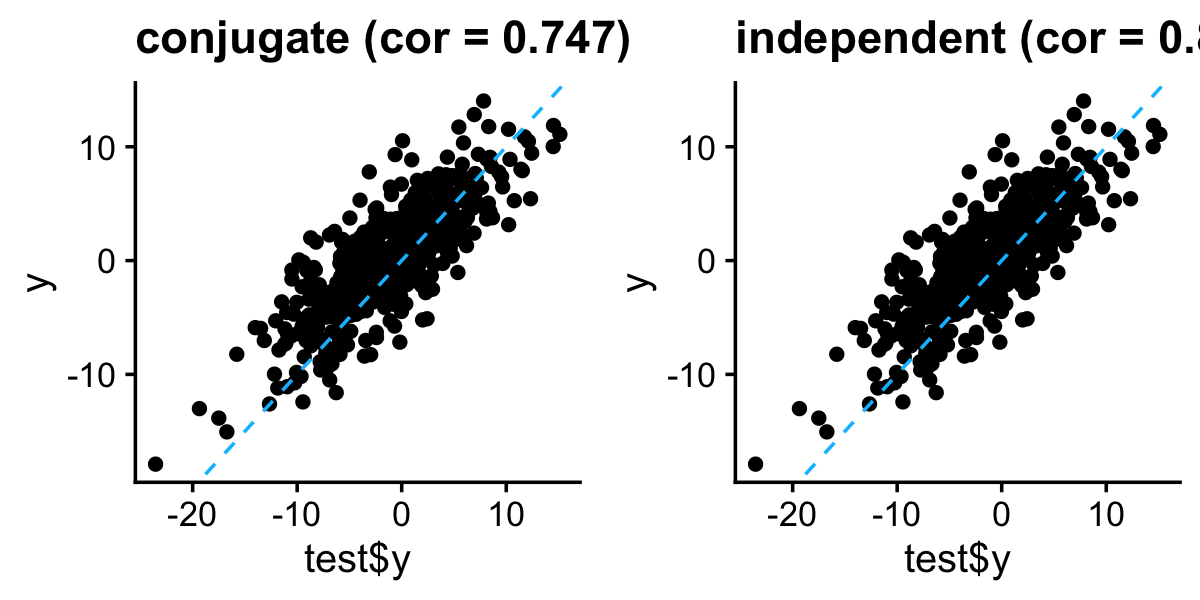
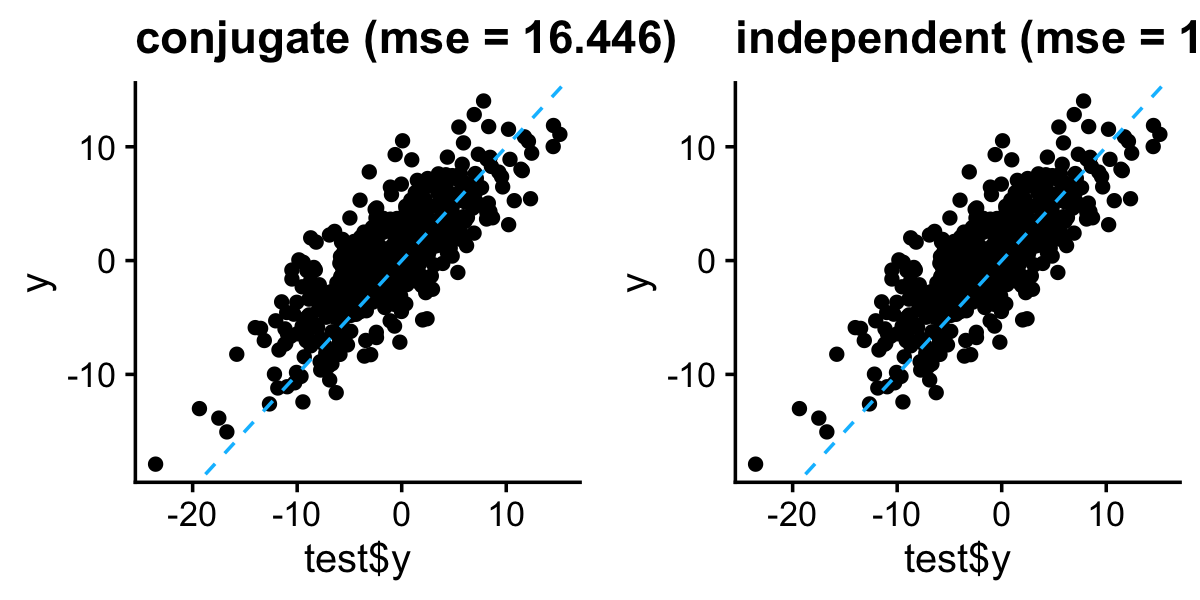
Added L0Learn to linreg_methods_demo.

Changed region(s): [[0.3083, 0.03, 0.5858, 0.09], [0.8633, 0.03, 1.0, 0.09]]

diff --git a/docs/linreg_methods_demo.html b/docs/linreg_methods_demo.html
@@ -307,7 +307,7 @@ class="glyphicon glyphicon-ok text-success" aria-hidden="true"></span>
 <div class="tab-content">
 <div id="summary" class="tab-pane fade in active">
 <p>
-<strong>Last updated:</strong> 2023-05-09
+<strong>Last updated:</strong> 2023-05-13
 </p>
 <p>
 <strong>Checks:</strong> <span
@@ -438,15 +438,15 @@ project makes it easier to run your code on other machines.</p>
 <div class="panel panel-default">
 <div class="panel-heading">
 <p class="panel-title">
-<a data-toggle="collapse" data-parent="#workflowr-checks" href="#strongRepositoryversionstrongahrefhttpsgithubcompcarbopcarbotree97c6939f35b9dcf0b1480132ceb6df593cdc57f3targetblank97c6939a">
+<a data-toggle="collapse" data-parent="#workflowr-checks" href="#strongRepositoryversionstrongahrefhttpsgithubcompcarbopcarbotreeeaecd02594c14e48a279d8c07ee5add351a1f085targetblankeaecd02a">
 <span class="glyphicon glyphicon-ok text-success"
 aria-hidden="true"></span> <strong>Repository version:</strong>
-<a href="https://github.com/pcarbo/pcarbo/tree/97c6939f35b9dcf0b1480132ceb6df593cdc57f3" target="_blank">97c6939</a>
+<a href="https://github.com/pcarbo/pcarbo/tree/eaecd02594c14e48a279d8c07ee5add351a1f085" target="_blank">eaecd02</a>
 </a>
 </p>
 </div>
 <div
[2 lines of base64/hex data omitted]
 class="panel-collapse collapse">
 <div class="panel-body">
 <p>
@@ -456,7 +456,7 @@ reproducibility.
 </p>
 <p>
 The results in this page were generated with repository version
-<a href="https://github.com/pcarbo/pcarbo/tree/97c6939f35b9dcf0b1480132ceb6df593cdc57f3" target="_blank">97c6939</a>.
+<a href="https://github.com/pcarbo/pcarbo/tree/eaecd02594c14e48a279d8c07ee5add351a1f085" target="_blank">eaecd02</a>.
 See the <em>Past versions</em> tab to see a history of the changes made
 to the R Markdown and HTML files.
 </p>
@@ -471,7 +471,6 @@ were generated:
 </p>
 <pre><code>
 Ignored files:
-    Ignored:    analysis/figure/
     Ignored:    analysis/fit-scd-ex-k=10.rds
     Ignored:    sbatch/makefile_demo/sims/sim0001.csv
     Ignored:    sbatch/makefile_demo/sims/sim0002.csv
@@ -778,6 +777,40 @@ Message
 Rmd
 </td>
 <td>
+<a href="https://github.com/pcarbo/pcarbo/blob/eaecd02594c14e48a279d8c07ee5add351a1f085/analysis/linreg_methods_demo.Rmd" target="_blank">eaecd02</a>
+</td>
+<td>
+Peter Carbonetto
+</td>
+<td>
+2023-05-13
+</td>
+<td>
+workflowr::wflow_publish("linreg_methods_demo.Rmd", verbose = TRUE)
+</td>
+</tr>
+<tr>
+<td>
+html
+</td>
+<td>
+<a href="https://rawcdn.githack.com/pcarbo/pcarbo/6182121cf30a7bc351295fd5323b6beb97138404/docs/linreg_methods_demo.html" target="_blank">6182121</a>
+</td>
+<td>
+Peter Carbonetto
+</td>
+<td>
+2023-05-09
+</td>
+<td>
+Added emvs to linreg_methods_demo.
+</td>
+</tr>
+<tr>
+<td>
+Rmd
+</td>
+<td>
 <a href="https://github.com/pcarbo/pcarbo/blob/97c6939f35b9dcf0b1480132ceb6df593cdc57f3/analysis/linreg_methods_demo.Rmd" target="_blank">97c6939</a>
 </td>
 <td>
@@ -835,13 +868,14 @@ workflowr::wflow_publish("linreg_methods_demo.Rmd", verbose = TRUE)
 <p>Load the packages and set the seed so that we may reproduce the
 results more easily.</p>
 <pre class="r"><code>library(MASS)
+library(L0Learn)
 library(SSLASSO)
 library(EMVS)
 library(ggplot2)
 library(cowplot)
 set.seed(1)</code></pre>
-<p>Simulate a data set with correlated variables. This simulation is
-similar to Example 1 from <a
+<p>Simulate a data set with correlated variables in a similar way to
+Example 1 from <a
 href="https://doi.org/10.1111/j.1467-9868.2005.00503.x">Zou &amp; Hastie
 2005</a>.</p>
 <pre class="r"><code>simulate_predictors_decaying_corr &lt;- function (n, p, s = 0.5)
@@ -857,10 +891,51 @@ Xtest  &lt;- simulate_predictors_decaying_corr(500,p,0.5)
 train  &lt;- list(X = Xtrain,y = simulate_outcomes(Xtrain,b,se))
 test   &lt;- list(X = Xtest,y = simulate_outcomes(Xtest,b,se))
 btrue  &lt;- b</code></pre>
+<div id="l0learn" class="section level2">
+<h2>L0Learn</h2>
+<p>First, let’s try the <a
+href="https://cran.r-project.org/package=L0Learn">L0Learn</a> from <a
+href="https://doi.org/10.1287/opre.2019.1919">Hazimeh and Mazumder
+2020</a>. In the <a
+href="https://cran.r-project.org/web/packages/L0Learn/vignettes/L0Learn-vignette.html">vignette</a>,
+the authors suggest using the “L0L1” or “L0L2” penalties for better
+predictive performance. The package includes an interface to
+automatically select the penalty parameters <span
+class="math inline">\(\lambda, \gamma\)</span> that minimize the
+test-set error. (L0Learn has two model fitting algorithms; the CD
+algorithm is faster whereas the CDPSI can sometimes produces better
+fits. For expediency we’ll use the CD algorithm.)</p>
+<pre class="r"><code>l0learn_cv &lt;- with(train,L0Learn.cvfit(X,y,penalty = &quot;L0L1&quot;,algorithm = &quot;CD&quot;))
+i &lt;- which.min(sapply(l0learn_cv$cvMeans,min))
+j &lt;- which.min(l0learn_cv$cvMeans[[i]])
+gamma &lt;- l0learn_cv$fit$gamma[i]
+lambda &lt;- l0learn_cv$fit$lambda[[i]][j]</code></pre>
+<p>Compare the coefficient estimates against the ground truth:</p>
+<pre class="r"><code>b &lt;- as.vector(coef(l0learn_cv,gamma = gamma,lambda = lambda))
+b0 &lt;- b[1]
+b &lt;- b[-1]
+qplot(btrue,b) +
+  geom_abline(intercept = 0,slope = 1,color = &quot;deepskyblue&quot;,
+              linetype = &quot;dashed&quot;) +
+  theme_cowplot(font_size = 12)  </code></pre>
+<p><img src="figure/linreg_methods_demo.Rmd/plot-coef-l0learn-1.png" width="300" style="display: block; margin: auto;" /></p>
+<p>The mean squared error (MSE) summarizes the accuracy of the
+predictions in the test set examples:</p>
+<pre class="r"><code>mse &lt;- function (x, y)
+  mean((x - y)^2)
+y &lt;- as.vector(predict(l0learn_cv,newx = test$X,gamma = gamma,lambda = lambda))
+qplot(test$y,y) +
+  geom_abline(intercept = 0,slope = 1,color = &quot;deepskyblue&quot;,
+              linetype = &quot;dashed&quot;) +
+  ggtitle(sprintf(&quot;mse = %0.3f&quot;,mse(test$y,y))) +
+  theme_cowplot(font_size = 12) +
+  theme(plot.title = element_text(face = &quot;plain&quot;,size = 12))</code></pre>
+<p><img src="figure/linreg_methods_demo.Rmd/predict-l0learn-1.png" width="300" style="display: block; margin: auto;" /></p>
+</div>
 <div id="sslasso" class="section level2">
 <h2>SSLASSO</h2>
-<p>First let’s try both the “adaptive” and “separable” variants of the
-<a href="https://cran.r-project.org/package=SSLASSO">Spike-and-Slab
+<p>Next let’s try both the “adaptive” and “separable” variants of the <a
+href="https://cran.r-project.org/package=SSLASSO">Spike-and-Slab
 LASSO</a>:</p>
 <pre class="r"><code>sslasso_adapt &lt;-
   with(train,SSLASSO(X,y,penalty = &quot;adaptive&quot;,variance = &quot;unknown&quot;))
@@ -966,7 +1041,7 @@ y  &lt;- drop(b0 + test$X %*% b)
 p1 &lt;- qplot(test$y,y) +
   geom_abline(intercept = 0,slope = 1,color = &quot;deepskyblue&quot;,
               linetype = &quot;dashed&quot;) +
-  ggtitle(sprintf(&quot;separable (cor = %0.3f)&quot;,cor(test$y,y))) +
+  ggtitle(sprintf(&quot;separable (mse = %0.3f)&quot;,mse(test$y,y))) +
   theme_cowplot(font_size = 12)
 b0 &lt;- sslasso_adapt$intercept[16]
 b  &lt;- sslasso_adapt$beta[,16]
@@ -974,7 +1049,7 @@ y  &lt;- drop(b0 + test$X %*% b)
 p2 &lt;- qplot(test$y,y) +
   geom_abline(intercept = 0,slope = 1,color = &quot;deepskyblue&quot;,
               linetype = &quot;dashed&quot;) +
-  ggtitle(sprintf(&quot;adaptive (cor = %0.3f)&quot;,cor(test$y,y))) +
+  ggtitle(sprintf(&quot;adaptive (mse = %0.3f)&quot;,mse(test$y,y))) +
   theme_cowplot(font_size = 12)
 plot_grid(p1,p2)</code></pre>
 <p><img src="figure/linreg_methods_demo.Rmd/predict-sslasso-1.png" width="600" style="display: block; margin: auto;" /></p>
@@ -1000,6 +1075,17 @@ Date
 </tr>
 </thead>
 <tbody>
+<tr>
+<td>
+<a href="https://github.com/pcarbo/pcarbo/blob/6182121cf30a7bc351295fd5323b6beb97138404/docs/figure/linreg_methods_demo.Rmd/predict-sslasso-1.png" target="_blank">6182121</a>
+</td>
+<td>
+Peter Carbonetto
+</td>
+<td>
+2023-05-09
+</td>
+</tr>
 <tr>
 <td>
 <a href="https://github.com/pcarbo/pcarbo/blob/1f3207838e331a8e4e1ac65614c87c0877b04d0b/docs/figure/linreg_methods_demo.Rmd/predict-sslasso-1.png" target="_blank">1f32078</a>
@@ -1036,6 +1122,43 @@ qplot(btrue,b) +
               linetype = &quot;dashed&quot;) +
   theme_cowplot(font_size = 12)</code></pre>
 <p><img src="figure/linreg_methods_demo.Rmd/emvs-conj-1.png" width="300" style="display: block; margin: auto;" /></p>
+<p>
+<button type="button" class="btn btn-default btn-xs btn-workflowr btn-workflowr-fig" data-toggle="collapse" data-target="#fig-emvs-conj-1">
+Past versions of emvs-conj-1.png
+</button>
+</p>
+<div id="fig-emvs-conj-1" class="collapse">
+<div class="table-responsive">
+<table class="table table-condensed table-hover">
+<thead>
+<tr>
+<th>
+Version
+</th>
+<th>
+Author
+</th>
+<th>
+Date
+</th>
+</tr>
+</thead>
+<tbody>
+<tr>
+<td>
+<a href="https://github.com/pcarbo/pcarbo/blob/6182121cf30a7bc351295fd5323b6beb97138404/docs/figure/linreg_methods_demo.Rmd/emvs-conj-1.png" target="_blank">6182121</a>
+</td>
+<td>
+Peter Carbonetto
+</td>
+<td>
+2023-05-09
+</td>
+</tr>
+</tbody>
+</table>
+</div>
+</div>
 <p><em>Add text here.</em></p>
 <pre class="r"><code>b &lt;- with(emvs_ind,betas[14,] * prob_inclusion[14,])
 qplot(btrue,b) +
@@ -1043,6 +1166,43 @@ qplot(btrue,b) +
               linetype = &quot;dashed&quot;) +
   theme_cowplot(font_size = 12)</code></pre>
 <p><img src="figure/linreg_methods_demo.Rmd/emvs-ind-1.png" width="300" style="display: block; margin: auto;" /></p>
+<p>
+<button type="button" class="btn btn-default btn-xs btn-workflowr btn-workflowr-fig" data-toggle="collapse" data-target="#fig-emvs-ind-1">
+Past versions of emvs-ind-1.png
+</button>
+</p>
+<div id="fig-emvs-ind-1" class="collapse">
+<div class="table-responsive">
+<table class="table table-condensed table-hover">
+<thead>
+<tr>
+<th>
+Version
+</th>
+<th>
+Author
+</th>
+<th>
+Date
+</th>
+</tr>
+</thead>
+<tbody>
+<tr>
+<td>
+<a href="https://github.com/pcarbo/pcarbo/blob/6182121cf30a7bc351295fd5323b6beb97138404/docs/figure/linreg_methods_demo.Rmd/emvs-ind-1.png" target="_blank">6182121</a>
+</td>
+<td>
+Peter Carbonetto
+</td>
+<td>
+2023-05-09
+</td>
+</tr>
+</tbody>
+</table>
+</div>
+</div>
 <p><em>Add text here.</em></p>
 <pre class="r"><code>b0 &lt;- emvs_conj$intersects[i]
 b  &lt;- emvs_conj$betas[i,]
@@ -1050,7 +1210,7 @@ y  &lt;- drop(b0 + test$X %*% b)
 p1 &lt;- qplot(test$y,y) +
   geom_abline(intercept = 0,slope = 1,color = &quot;deepskyblue&quot;,
               linetype = &quot;dashed&quot;) +
-  ggtitle(sprintf(&quot;conjugate (cor = %0.3f)&quot;,cor(test$y,y))) +
+  ggtitle(sprintf(&quot;conjugate (mse = %0.3f)&quot;,mse(test$y,y))) +
   theme_cowplot(font_size = 12)
 b0 &lt;- emvs_ind$intersects[14]
 b  &lt;- emvs_ind$beta[14,]
@@ -1058,10 +1218,47 @@ y  &lt;- drop(b0 + test$X %*% b)
 p2 &lt;- qplot(test$y,y) +
   geom_abline(intercept = 0,slope = 1,color = &quot;deepskyblue&quot;,
               linetype = &quot;dashed&quot;) +
-  ggtitle(sprintf(&quot;independent (cor = %0.3f)&quot;,cor(test$y,y))) +
+  ggtitle(sprintf(&quot;independent (mse = %0.3f)&quot;,mse(test$y,y))) +
   theme_cowplot(font_size = 12)
 plot_grid(p1,p2)</code></pre>
 <p><img src="figure/linreg_methods_demo.Rmd/predict-emvs-1.png" width="600" style="display: block; margin: auto;" /></p>
+<p>
+<button type="button" class="btn btn-default btn-xs btn-workflowr btn-workflowr-fig" data-toggle="collapse" data-target="#fig-predict-emvs-1">
+Past versions of predict-emvs-1.png
+</button>
+</p>
+<div id="fig-predict-emvs-1" class="collapse">
+<div class="table-responsive">
+<table class="table table-condensed table-hover">
+<thead>
+<tr>
+<th>
+Version
+</th>
+<th>
+Author
+</th>
+<th>
+Date
+</th>
+</tr>
+</thead>
+<tbody>
+<tr>
+<td>
+<a href="https://github.com/pcarbo/pcarbo/blob/6182121cf30a7bc351295fd5323b6beb97138404/docs/figure/linreg_methods_demo.Rmd/predict-emvs-1.png" target="_blank">6182121</a>
+</td>
+<td>
+Peter Carbonetto
+</td>
+<td>
+2023-05-09
+</td>
+</tr>
+</tbody>
+</table>
+</div>
+</div>
 <br>
 <p>
 <button type="button" class="btn btn-default btn-workflowr btn-workflowr-sessioninfo" data-toggle="collapse" data-target="#workflowr-sessioninfo" style="display: block;">
@@ -1086,23 +1283,25 @@ Session information
 # [1] stats     graphics  grDevices utils     datasets  methods   base     
 # 
 # other attached packages:
-# [1] cowplot_1.1.1 ggplot2_3.3.6 EMVS_1.2.1    SSLASSO_1.2-2 MASS_7.3-51.4
+# [1] cowplot_1.1.1 ggplot2_3.3.6 EMVS_1.2.1    SSLASSO_1.2-2 L0Learn_2.1.0
+# [6] MASS_7.3-51.4
 # 
 # loaded via a namespace (and not attached):
 #  [1] tidyselect_1.1.1  xfun_0.29         bslib_0.3.1       purrr_0.3.4      
-#  [5] colorspace_1.4-1  vctrs_0.3.8       generics_0.0.2    htmltools_0.5.4  
-#  [9] yaml_2.2.0        utf8_1.1.4        rlang_1.0.6       jquerylib_0.1.4  
-# [13] later_1.0.0       pillar_1.6.2      glue_1.4.2        withr_2.5.0      
-# [17] DBI_1.1.0         lifecycle_1.0.3   stringr_1.4.0     munsell_0.5.0    
-# [21] gtable_0.3.0      workflowr_1.7.0.3 evaluate_0.14     labeling_0.3     
-# [25] knitr_1.37        fastmap_1.1.0     httpuv_1.5.2      fansi_0.4.0      
-# [29] highr_0.8         Rcpp_1.0.8        promises_1.1.0    scales_1.1.0     
-# [33] jsonlite_1.7.2    farver_2.0.1      fs_1.5.2          digest_0.6.23    
-# [37] stringi_1.4.3     dplyr_1.0.7       rprojroot_2.0.3   grid_3.6.2       
-# [41] cli_3.5.0         tools_3.6.2       magrittr_2.0.1    sass_0.4.0       
-# [45] tibble_3.1.3      crayon_1.4.1      whisker_0.4       pkgconfig_2.0.3  
-# [49] ellipsis_0.3.2    assertthat_0.2.1  rmarkdown_2.11    R6_2.4.1         
-# [53] git2r_0.29.0      compiler_3.6.2</code></pre>
+#  [5] reshape2_1.4.3    lattice_0.20-38   colorspace_1.4-1  vctrs_0.3.8      
+#  [9] generics_0.0.2    htmltools_0.5.4   yaml_2.2.0        utf8_1.1.4       
+# [13] rlang_1.0.6       jquerylib_0.1.4   later_1.0.0       pillar_1.6.2     
+# [17] withr_2.5.0       glue_1.4.2        DBI_1.1.0         lifecycle_1.0.3  
+# [21] plyr_1.8.5        stringr_1.4.0     munsell_0.5.0     gtable_0.3.0     
+# [25] workflowr_1.7.0.3 evaluate_0.14     labeling_0.3      knitr_1.37       
+# [29] fastmap_1.1.0     httpuv_1.5.2      fansi_0.4.0       highr_0.8        
+# [33] Rcpp_1.0.8        promises_1.1.0    scales_1.1.0      jsonlite_1.7.2   
+# [37] farver_2.0.1      fs_1.5.2          digest_0.6.23     stringi_1.4.3    
+# [41] dplyr_1.0.7       rprojroot_2.0.3   grid_3.6.2        cli_3.5.0        
+# [45] tools_3.6.2       magrittr_2.0.1    sass_0.4.0        tibble_3.1.3     
+# [49] crayon_1.4.1      whisker_0.4       pkgconfig_2.0.3   ellipsis_0.3.2   
+# [53] Matrix_1.3-4      assertthat_0.2.1  rmarkdown_2.11    R6_2.4.1         
+# [57] git2r_0.29.0      compiler_3.6.2</code></pre>
 </div>
 </div>
 
